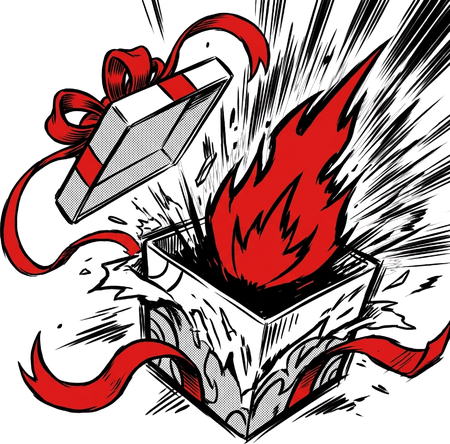
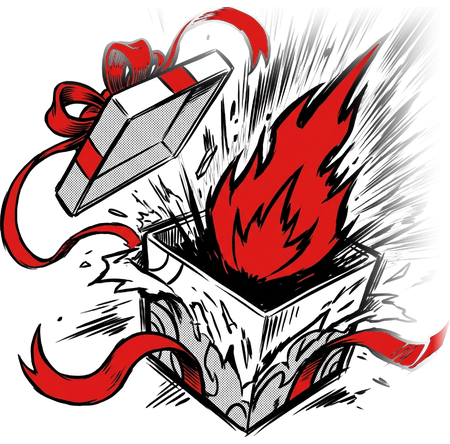
ios: illustrazione del regalo senza bordo quadrato (T-018 punto 8) (#45)

diff --git a/ios/tasks/T-018-correzioni-natale.md b/ios/tasks/T-018-correzioni-natale.md
@@ -36,3 +36,11 @@ Solo SSD: file pesanti in `/Volumes/SSD/Temp/NEAT/`, cancellati a fine compito; 
 Non unire, nessuna build TestFlight, nessun tag, nessuna chiave. Non scrivere a William.
 
 ## Esito
+**Designer, 18/11/2026: punto 8 fatto.** `RegaloJolly` @2x/@3x rifatti in locale dall'originale della generazione #10,
+senza crediti, in `docs/design/T-015-natale/asset/`.
+- I tratteggi dello scoppio sfumano a zero verso i lati alto e destra, entro 230 px su 1024. Il nastro e la fiamma rossi
+  restano pieni.
+- Pacco e coperchio non cambiano.
+- Le misure restano 300 × 296 e 450 × 444, con il disegno centrato su fondo trasparente: la cornice di 128 × 126,3 pt in
+  `JollyPopup` va bene così com'è.
+- Il Developer deve solo copiare i due PNG in `App/Assets.xcassets/RegaloJolly.imageset/`.
